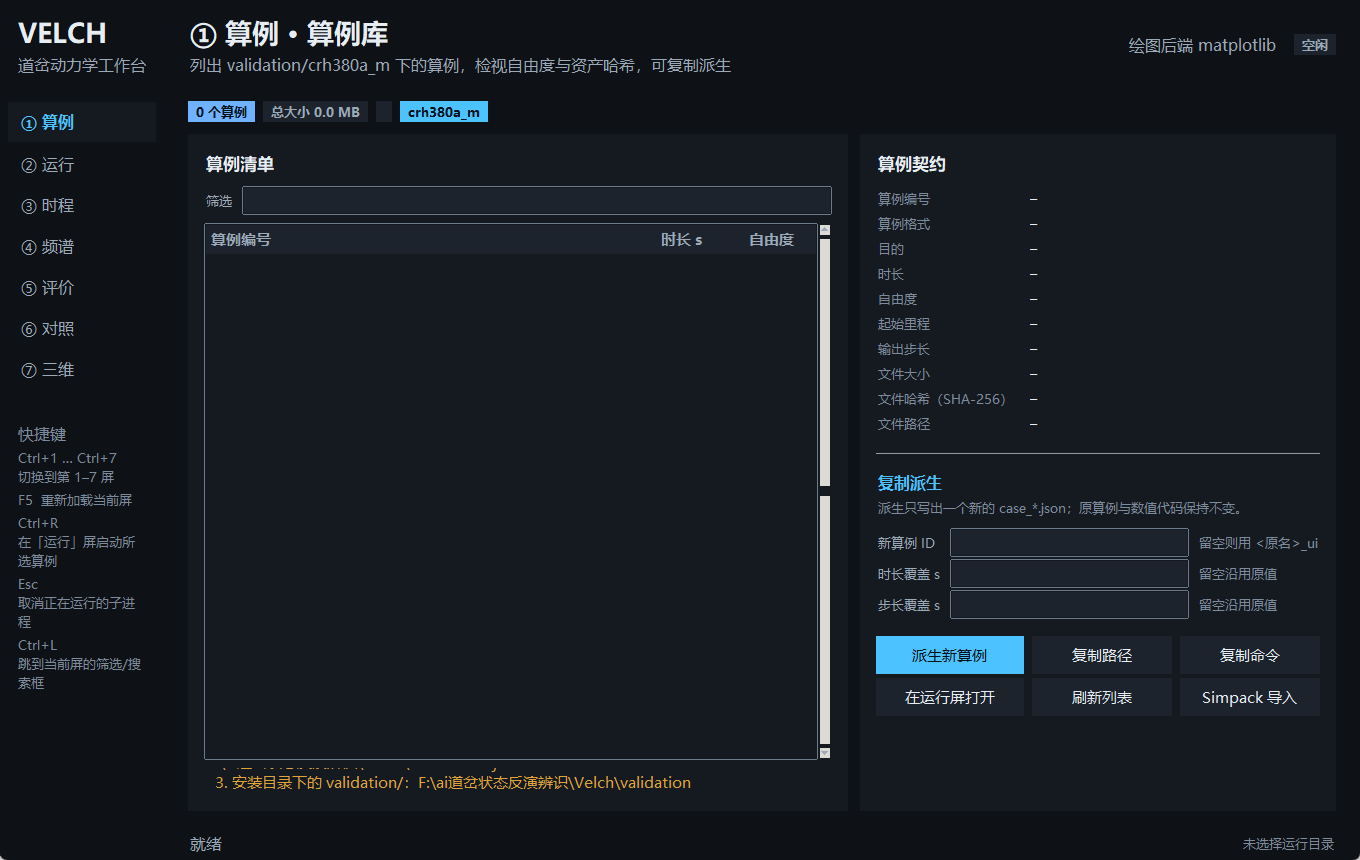
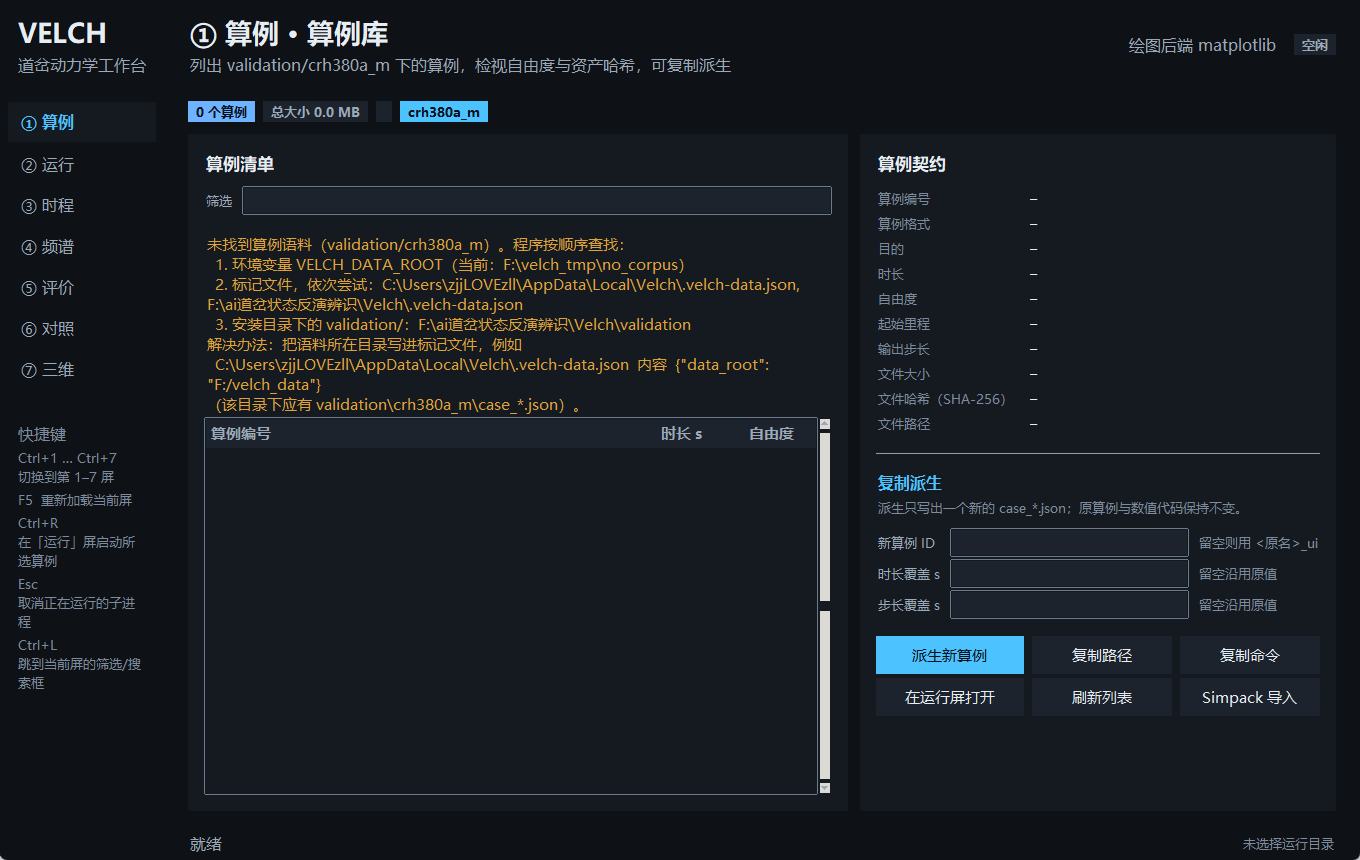
Show the empty-corpus hint where it can be read: above the table, not below it

diff --git a/src/velch/ui/screen_cases.py b/src/velch/ui/screen_cases.py
@@ -63,11 +63,6 @@ class CasesScreen(Screen):
                                       style="Field.TEntry")
         self.filter_entry.pack(side="left", fill="x", expand=True, padx=(theme.GAP, 0))
         self.filter_var.trace_add("write", lambda *_a: self._apply_filter())
-        self.table = ListPanel(body, height=18)
-        self.table.pack(fill="both", expand=True)
-        self.table.columns(COLUMNS, stretch_weights=STRETCH)
-        self.table.tree.bind("<<TreeviewSelect>>", self._on_select)
-        self.table.tree.bind("<Double-1>", lambda _e: self.open_in_run())
         # Where the program looked for the corpus, shown only when it found nothing: a packaged
         # build ships no cases, so an empty table is the expected first run and needs a reason.
         self.problem_var = tk.StringVar(value="")
@@ -79,6 +74,11 @@ class CasesScreen(Screen):
         # Wrap to the card instead of to a guess: an unwrapped hint asks for the width of its whole
         # sentence, and pack gives it, which squeezes the right card until its buttons clip.
         self.wrap_with(self.problem_label, body, reserve=16)
+        self.table = ListPanel(body, height=18)
+        self.table.pack(fill="both", expand=True)
+        self.table.columns(COLUMNS, stretch_weights=STRETCH)
+        self.table.tree.bind("<<TreeviewSelect>>", self._on_select)
+        self.table.tree.bind("<Double-1>", lambda _e: self.open_in_run())
 
         # -- right: detail + derive --------------------------------------
         right = Card(self, "算例契约")

diff --git a/docs/CHANGELOG_DOCS.md b/docs/CHANGELOG_DOCS.md
@@ -1349,3 +1349,9 @@ O008 剩下的那一层（冠部横向漂移 103 mm 未导入）看起来像"再
 
 同时把 O003 收尾：CSV 列不再"默默猜"，选择后在状态栏报出选中的里程列/力列，并报**还有几个候选**、
 可下拉改；`x` 这种单字母 token 只匹配 `x` / `x_m` / `x.…`，不会把 `max_force` 抢成里程列。
+
+### 补：提示本身被挤出卡片
+
+把空态提示挪到表格**上方**后才真正可见——原先它排在表格下面，卡片高度不够时父容器直接把它裁掉，
+截图里只剩最后一行。现在五行提示（查过哪些位置、怎么设置标记、标记 JSON 示例）全部在屏上，
+表格让出空间。凭据：\docs/images/ui_empty_corpus.png\；无语料套件 390 passed / 139 skipped。
